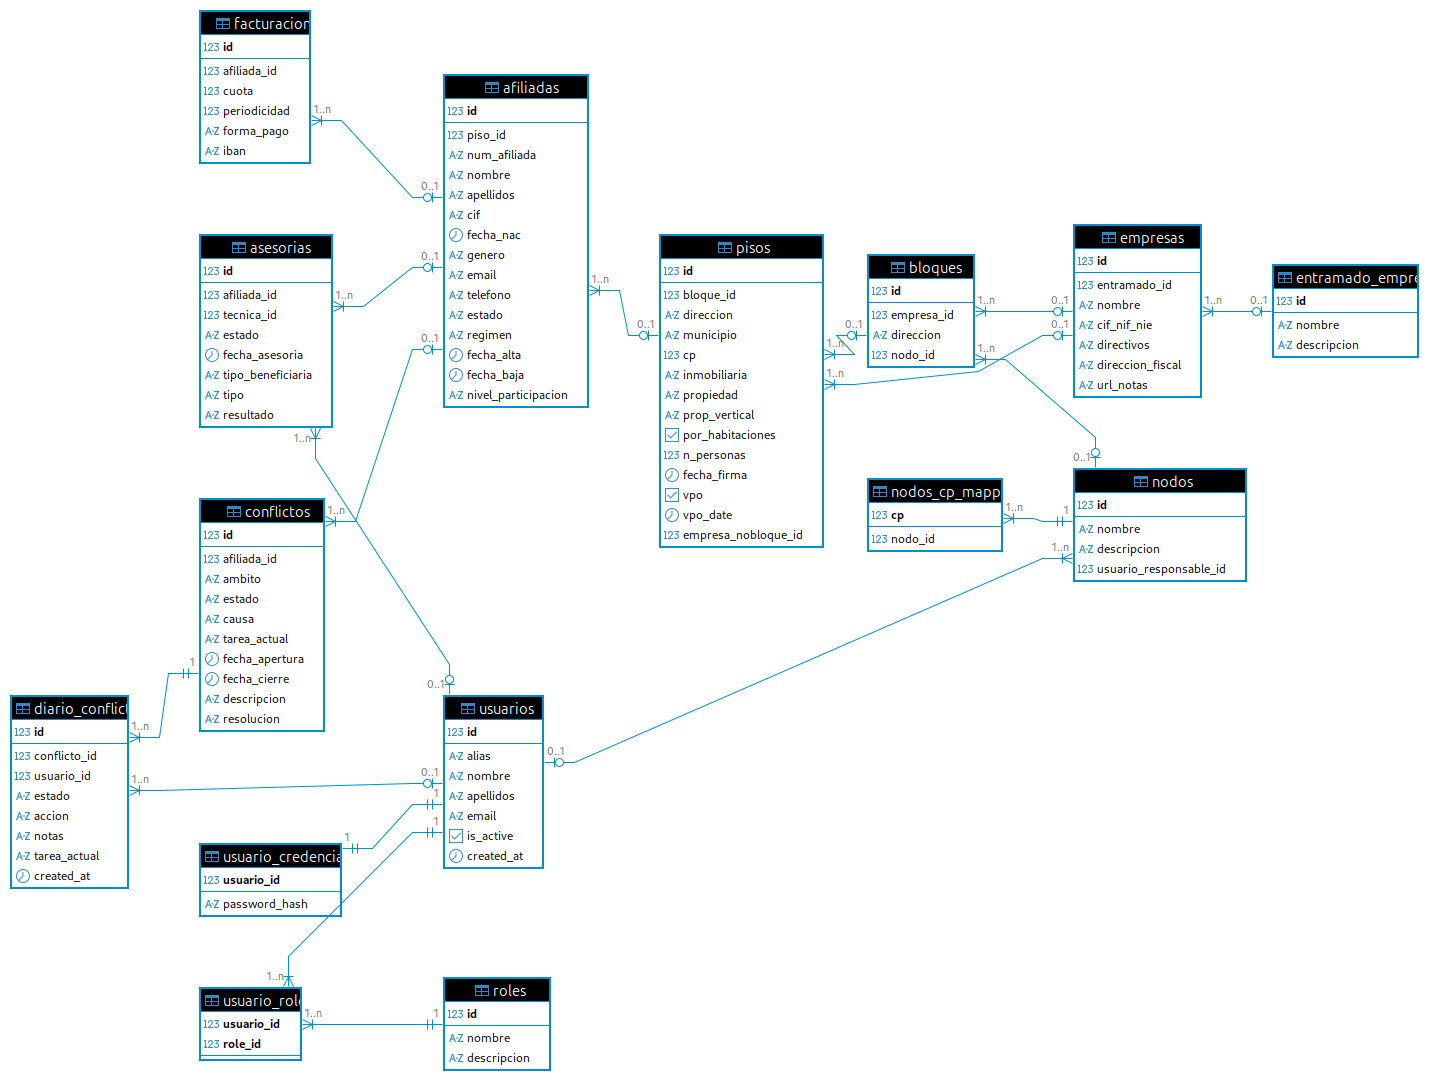
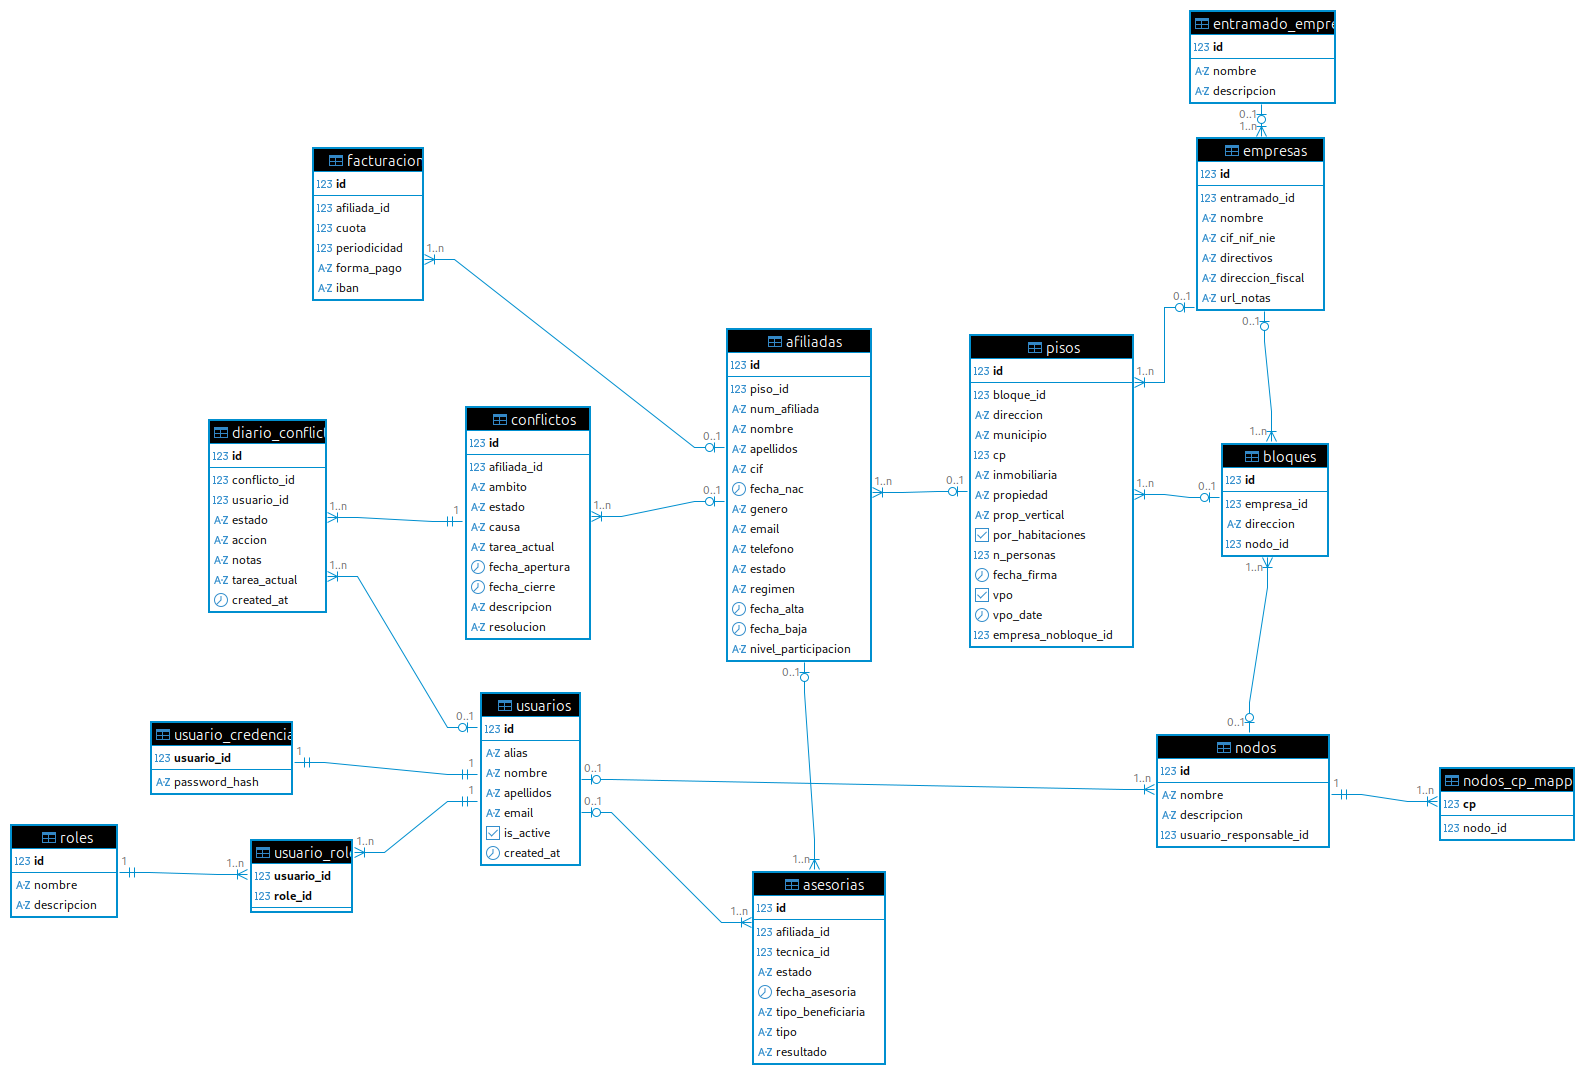
last changes

diff --git a/build/niceGUI/config.py b/build/niceGUI/config.py
@@ -79,19 +79,18 @@ TABLE_INFO = {
         "hidden_fields": [
             "id",
             "por_habitaciones",
-            "empresa_nobloque_id",
             "inmobiliaria",
             "bloque_id",
             "vpo",
             "vpo_date",
+            "prop_vertical",
+            "n_personas",
+            "fecha_firma",
         ],
         "fields": [
             "direccion",
             "municipio",
             "cp",
-            "prop_vertical",
-            "n_personas",
-            "fecha_firma",
         ],
         "relations": {
             "bloque_id": {
@@ -100,8 +99,7 @@ TABLE_INFO = {
                 "relations": {
                     "empresa_id": {"view": "empresas", "display_field": "nombre"}
                 },
-            },
-            "empresa_nobloque_id": {"view": "empresas", "display_field": "nombre"},
+            }
         },
         "child_relations": [
             {"table": "afiliadas", "foreign_key": "piso_id"},
@@ -341,6 +339,11 @@ VIEW_INFO = {
     "v_facturacion": {
         "display_name": "Vista extendida de facturación",
         "base_table": "afiliadas",
+        "hidden_fields": ["id"],
+    },
+    "v_consolidar_pisos_bloques": {
+        "display_name": "Vista consolidada de Pisos-Bloques",
+        "base_table": "pisos",
         "hidden_fields": ["id"],
     },
 }
